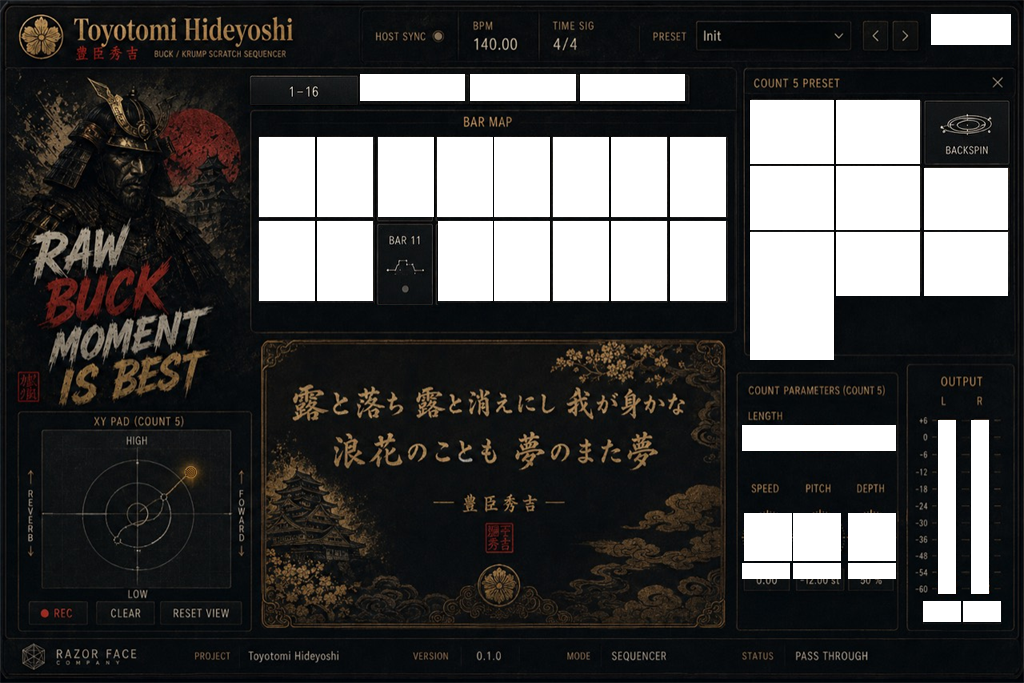
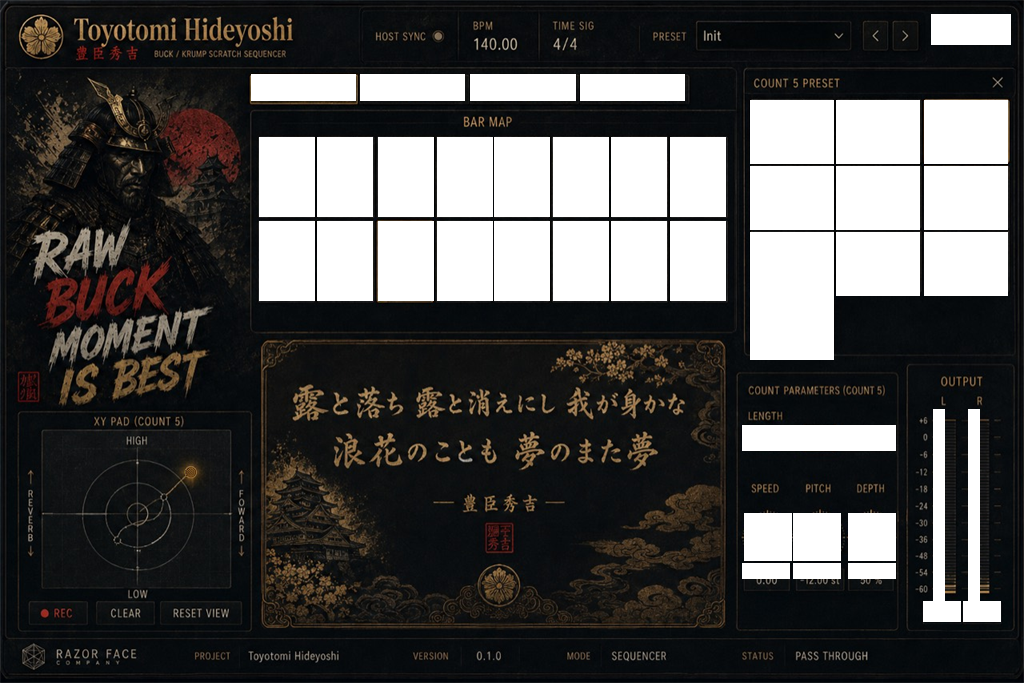
fix: align static faceplate meter ownership

diff --git a/tests/RuntimeSmokeTests.cpp b/tests/RuntimeSmokeTests.cpp
@@ -701,7 +701,7 @@ int main()
         }
     for (const auto& bounds : std::array<juce::Rectangle<int>, 6> {{{744,513,48,48},{793,513,48,48},{848,513,48,48},{742,563,48,16},{793,563,48,16},{848,563,48,16}}})
         faceplateClean = faceplateClean && fullyTransparent (staticFaceplate, bounds);
-    for (const auto& bounds : std::array<juce::Rectangle<int>, 4> {{{938,420,18,174},{971,420,18,174},{923,601,38,21},{963,601,38,21}}})
+    for (const auto& bounds : std::array<juce::Rectangle<int>, 4> {{{933,409,12,204},{968,409,12,204},{923,601,38,21},{963,601,38,21}}})
         faceplateClean = faceplateClean && fullyTransparent (staticFaceplate, bounds);
     faceplateClean = faceplateClean && hasNoDynamicGoldTrace (staticFaceplate, { 56, 450, 157, 120 });
     pass &= check (faceplateClean, "v2-static-background-clean-gate");
